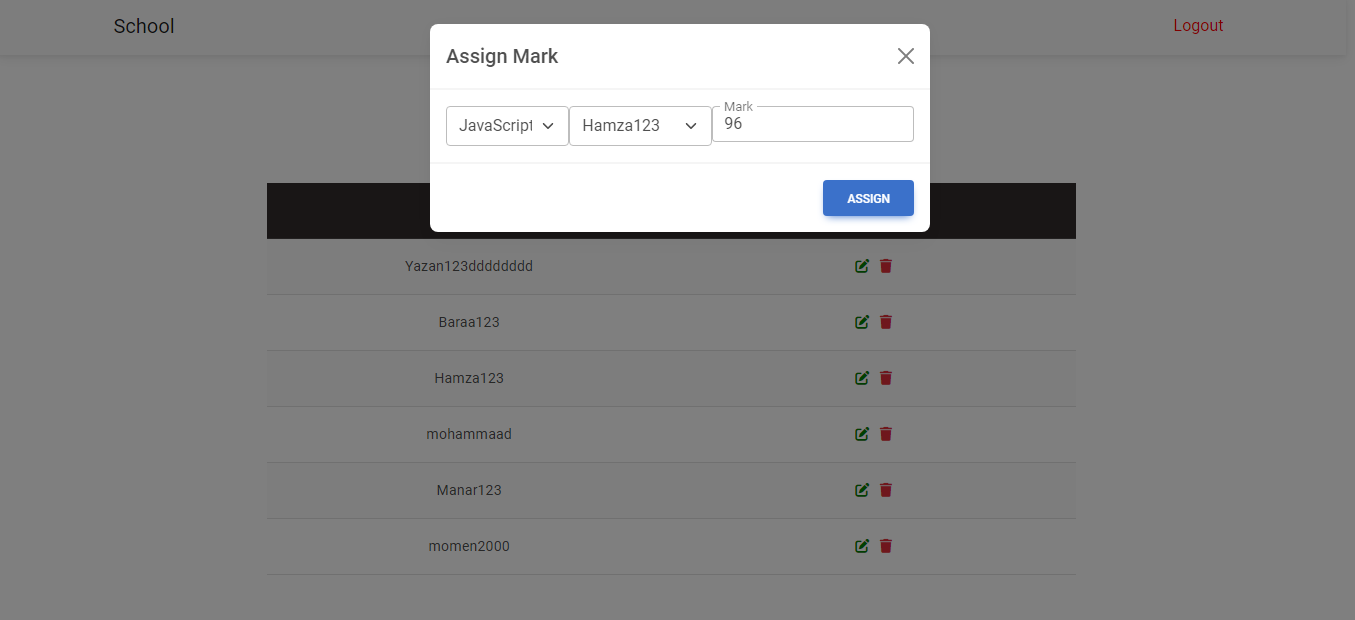
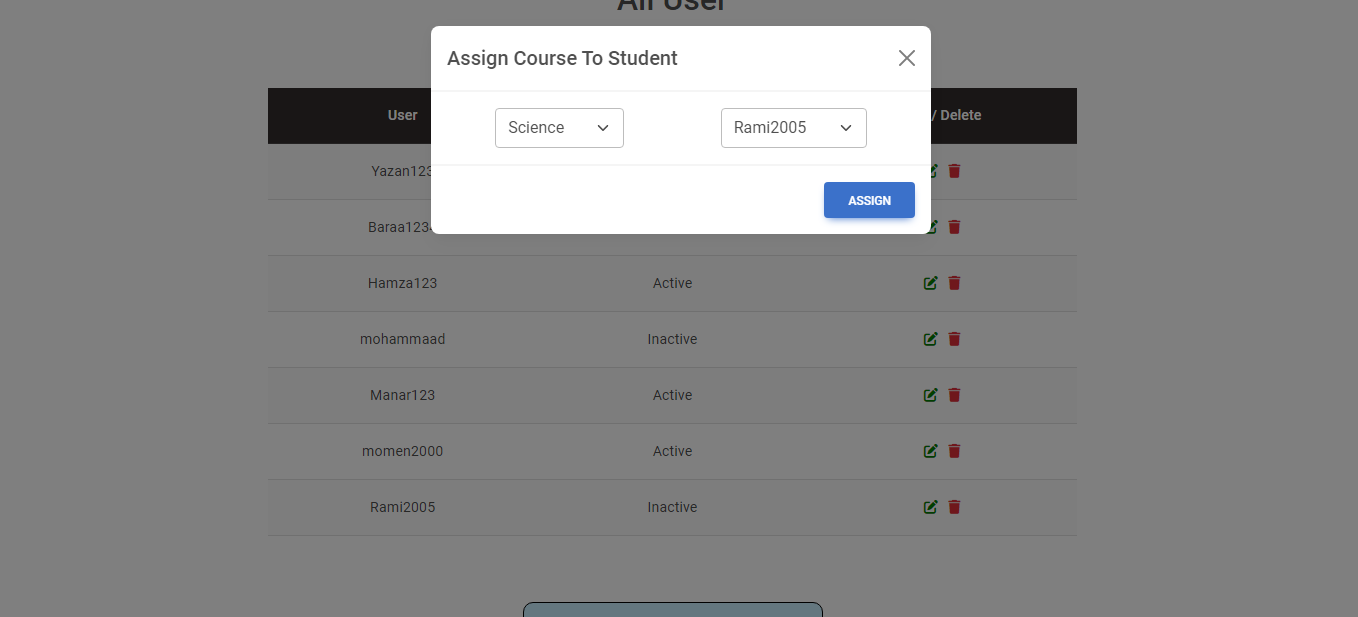
school management system FE

diff --git a/src/components/EditUser.js b/src/components/EditUser.js
@@ -12,10 +12,16 @@ import {
   MDBModalFooter,
   MDBTextArea,
   MDBInput,
+  MDBCheckbox
 } from 'mdb-react-ui-kit'
 
 const EditUser = (props) => {
   const [basicModal, setBasicModal] = useState(false)
+  const [isActive, setIsActive]= useState(false)
+
+  const handleActiveChange=(e)=>{
+    setIsActive(e.target.checked)
+  }
 
   const handleEditSubmit = (e) => {
     e.preventDefault()
@@ -23,9 +29,9 @@ const EditUser = (props) => {
     let userInfo = {
       username: e.target.username.value,
       email: e.target.email.value,
-      active: e.target.active.value,
+      active: isActive,
     }
-    // console.log(userInfo);
+    console.log(userInfo);
     try {
       const config = {
         headers: {
@@ -90,12 +96,11 @@ const EditUser = (props) => {
                   label='Email'
                   name='email'
                 />
-                <MDBInput
-                  defaultValue={props.user.active}
-                  labelClass='col-form-label'
-                  label='Active'
-                  name='active'
-                />
+                <div style={{display:'flex'}}>
+                <MDBCheckbox onChange={handleActiveChange} name='active' defaultChecked={props.user.active} id='flexCheckDefault' />
+                <label class="form-check-label" for="flexCheckCheckedDisabled">Active</label>
+                </div>
+                
               </MDBModalBody>
 
               <MDBModalFooter>

diff --git a/src/components/AssignCourse.js b/src/components/AssignCourse.js
@@ -150,6 +150,7 @@ const AssignCourse = () => {
                       aria-label='Default select example'
                       defaultValue={courseId}
                     >
+                      <option selected></option>
                       {coursess.map((course, idx) => {
                         return (
                           <option key={idx} value={course._id}>
@@ -171,9 +172,10 @@ const AssignCourse = () => {
                       aria-label='Default select example'
                       defaultValue={userId}
                     >
+                      <option selected></option>
                       {users.map((user, idx) => {
                         return (
-                          <option key={idx} value={user._id} selected>
+                          <option key={idx} value={user._id}>
                             {user.username}
                           </option>
                         )
@@ -184,9 +186,7 @@ const AssignCourse = () => {
               </MDBModalBody>
 
               <MDBModalFooter>
-                {/* <MDBBtn color='secondary'>
-                Close
-              </MDBBtn> */}
+                
                 <MDBBtn>Assign</MDBBtn>
               </MDBModalFooter>
             </form>

diff --git a/src/components/Admin.js b/src/components/Admin.js
@@ -39,7 +39,7 @@ const Admin = () => {
           const allUsers = res.data.filter((user) => {
             return !user.isAdmin
           })
-          console.log(res.data)
+          // console.log(res.data)
           setUsers(allUsers)
         })
       } catch (error) {
@@ -90,16 +90,19 @@ const Admin = () => {
                   User
                 </th>
                 <th style={{ maxWidth: '50px' }} scope='col'>
+                  Status
+                </th>
+                <th style={{ maxWidth: '50px' }} scope='col'>
                   Edit / Delete
                 </th>
               </tr>
             </MDBTableHead>
             <MDBTableBody>
               {users.map((user, idx) => {
-                console.log(user['active'])
                 return (
                   <tr key={idx} style={{ textAlign: 'center' }}>
                     <td style={{ maxWidth: '50px' }}>{user['username']}</td>
+                    <td style={{ maxWidth: '50px' }}>{user['active'] ? "Active" : 'Inactive'}</td>
                     <td style={{ maxWidth: '50px' }}>
                       <div
                         style={{

diff --git a/src/components/SetMark.js b/src/components/SetMark.js
@@ -150,6 +150,7 @@ const SetMark = () => {
                       onChange={handleOptionChange}
                       aria-label='Default select example'
                     >
+                      <option selected></option>
                       {coursess.map((course, idx) => {
                         return (
                           <option value={course._id}>{course.subject}</option>
@@ -168,6 +169,7 @@ const SetMark = () => {
                       onChange={handleUserChange}
                       aria-label='Default select example'
                     >
+                      <option selected></option>
                       {users.map((user, idx) => {
                         return <option value={user._id}>{user.username}</option>
                       })}
